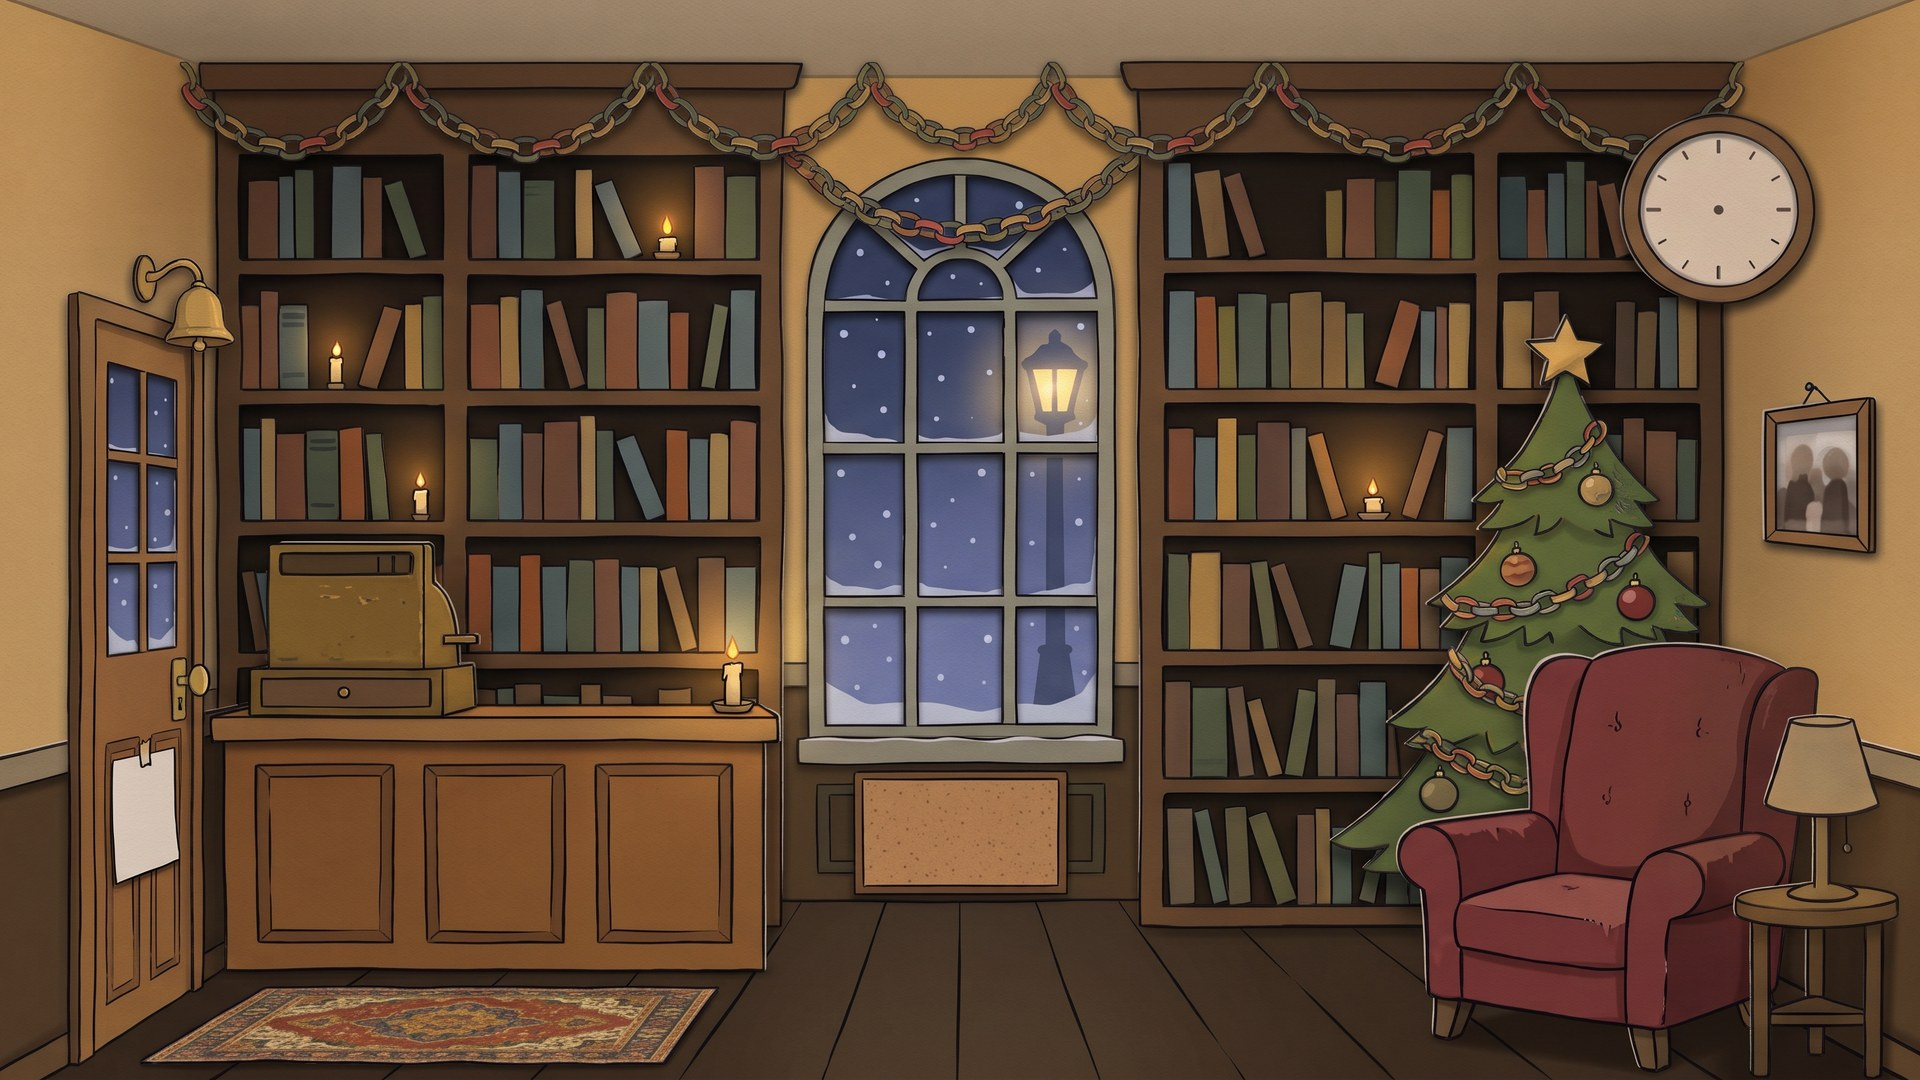
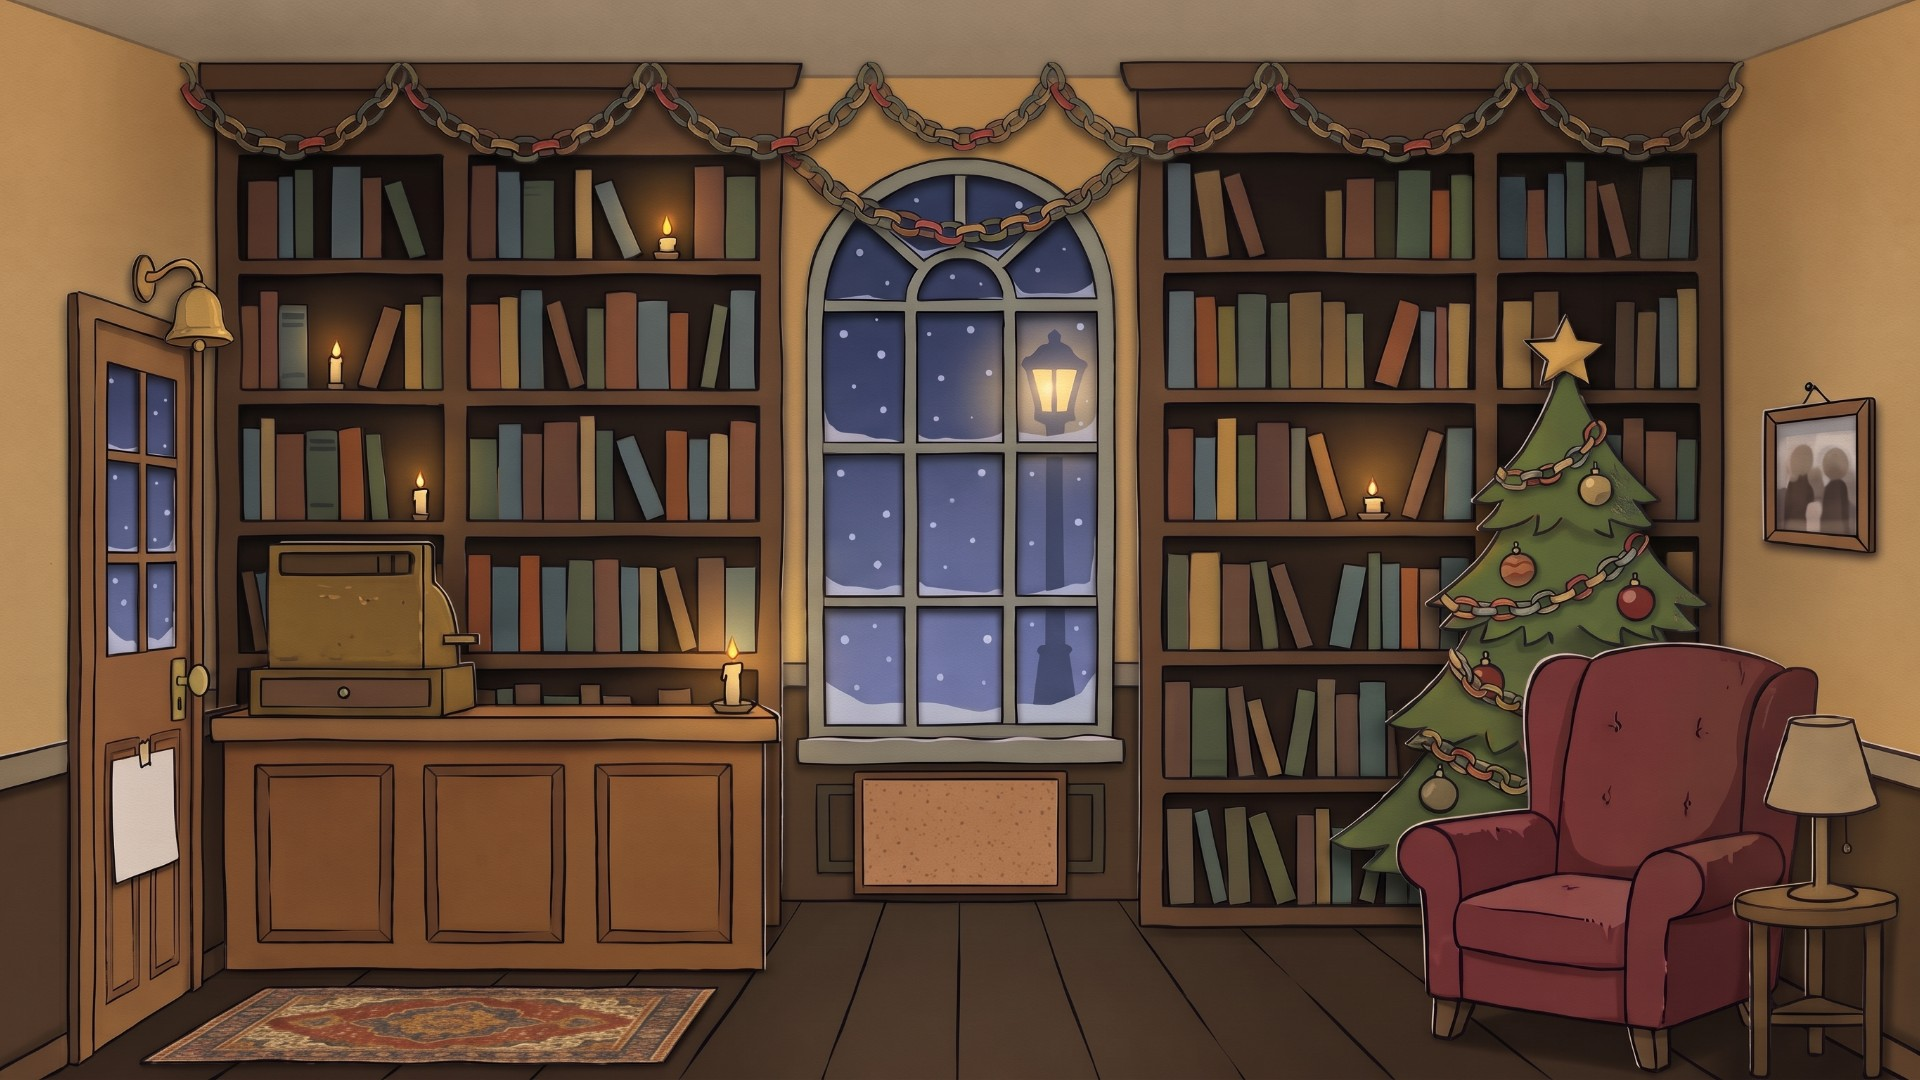
Fixed clock

diff --git a/public/styles.css b/public/styles.css
@@ -1702,3 +1702,88 @@ svg-art { display: contents; }
 /* House lights down for the performance; the lit sheet and puppets stay bright. */
 .stage[data-lights="down"] .room-art { filter: brightness(0.4) saturate(0.75); }
 .stage[data-lights="down"] .prop:not(.prop--sheet, .prop--puppet, .prop--beam, .prop--torch) { filter: brightness(0.45); }
+
+/* ---------- Wall clock (Components.Clock) ---------- */
+
+/* Hangs on the clear right-hand wall above the family photograph, in % of the
+   room so it scales with it. The 1950 picture (also used for 1998) and the
+   saved ending have a painted clock, so this one shows only where the picture
+   has none: the present-day and 1973 rooms, where the painted clock's hands
+   overlay (.r-hands) is switched off. */
+.clock {
+  position: absolute;
+  z-index: 1;
+  left: 90.8%;
+  top: 19%;
+  width: 7.5%;
+  aspect-ratio: 1;
+  transform-origin: 50% 0; /* swings from its nail */
+  filter: drop-shadow(0.15rem 0.25rem 0.15rem rgba(41, 30, 26, 0.4));
+  pointer-events: none;
+}
+
+.stage:is([data-era="1950"], [data-era="1998"], [data-era="saved"]) .clock { display: none; }
+/* The hands overlay sits inside an SVG <use>, so it is switched by a variable. */
+.r-hands { opacity: var(--show-hands, 1); }
+.stage:is([data-era="present"], [data-era="closed"], [data-era="1973"]) { --show-hands: 0; }
+.stage[data-lights="down"] .clock { filter: brightness(0.45); }
+
+.clock__face {
+  position: absolute;
+  inset: 0;
+  border: 0.45rem solid #a6652b;
+  border-radius: 50%;
+  background: #f2e4c9;
+  box-shadow: 0 0 0 0.12rem #5a3428, inset 0 0 0 0.1rem #5a3428;
+}
+
+/* Ticks and hands each fill the face and are turned about its centre; the
+   visible mark is drawn from the centre (hands) or the rim (ticks). */
+.clock__tick,
+.clock__hand { position: absolute; inset: 0; }
+
+.clock__tick::before,
+.clock__hand::before {
+  content: "";
+  position: absolute;
+  left: 50%;
+  border-radius: 0.1rem;
+  background: #291e1a;
+  transform: translateX(-50%);
+}
+
+.clock__tick::before { top: 5%; width: 0.15rem; height: 9%; }
+.clock__hand::before { bottom: 50%; }
+.clock__hand--hour::before { width: 0.35rem; height: 26%; }
+.clock__hand--minute::before { width: 0.25rem; height: 38%; }
+.clock__hand--second::before { width: 0.1rem; height: 40%; background: #893f43; }
+
+.clock__pin {
+  position: absolute;
+  left: 50%;
+  top: 50%;
+  width: 12%;
+  height: 12%;
+  border: 0.08rem solid #291e1a;
+  border-radius: 50%;
+  background: #d9a443;
+  transform: translate(-50%, -50%);
+}
+
+/* The second hand ticks once a second and the clock sways a little; both stop
+   when the clock has stopped, and both are off for reduced motion. */
+@media (prefers-reduced-motion: no-preference) {
+  .clock { animation: clock-swing 3s ease-in-out infinite alternate; }
+  .clock__hand--second { animation: clock-second 60s steps(60) infinite; }
+  .clock.is-stopped,
+  .clock.is-stopped .clock__hand--second { animation-play-state: paused; }
+}
+
+@keyframes clock-swing {
+  from { transform: rotate(-1.5deg); }
+  to { transform: rotate(1.5deg); }
+}
+
+@keyframes clock-second {
+  to { transform: rotate(360deg); }
+}

diff --git a/public/assets/ASSETS.md b/public/assets/ASSETS.md
@@ -46,9 +46,9 @@ Generated with Google Gemini from the team's prompt. Only cropped to 16:9 and re
 
 | File | Use |
 |---|---|
-| `room-present.jpg` | Present day: introduction, hub, return from a diary. Dimmed by CSS for the closed ending until it has its own picture. |
+| `room-present.jpg` | Present day: introduction, hub, return from a diary. Dimmed by CSS for the closed ending until it has its own picture. No painted clock: `src/Components/Clock.elm` draws one on the right-hand wall. |
 | `room-1950.jpg` | 1950, and a stand-in for 1998 until that has its own picture. |
-| `room-1973.jpg` | 1973 |
+| `room-1973.jpg` | 1973. No painted clock: `src/Components/Clock.elm` draws one on the right-hand wall. |
 | `room-saved.jpg` | The saved ending. Cut from the original reference picture, inside its dark border. |
 
 The ceiling stain, rubble and clock hands are small SVG overlays in `public/index.html`, so one picture can show a room before and after the work.
